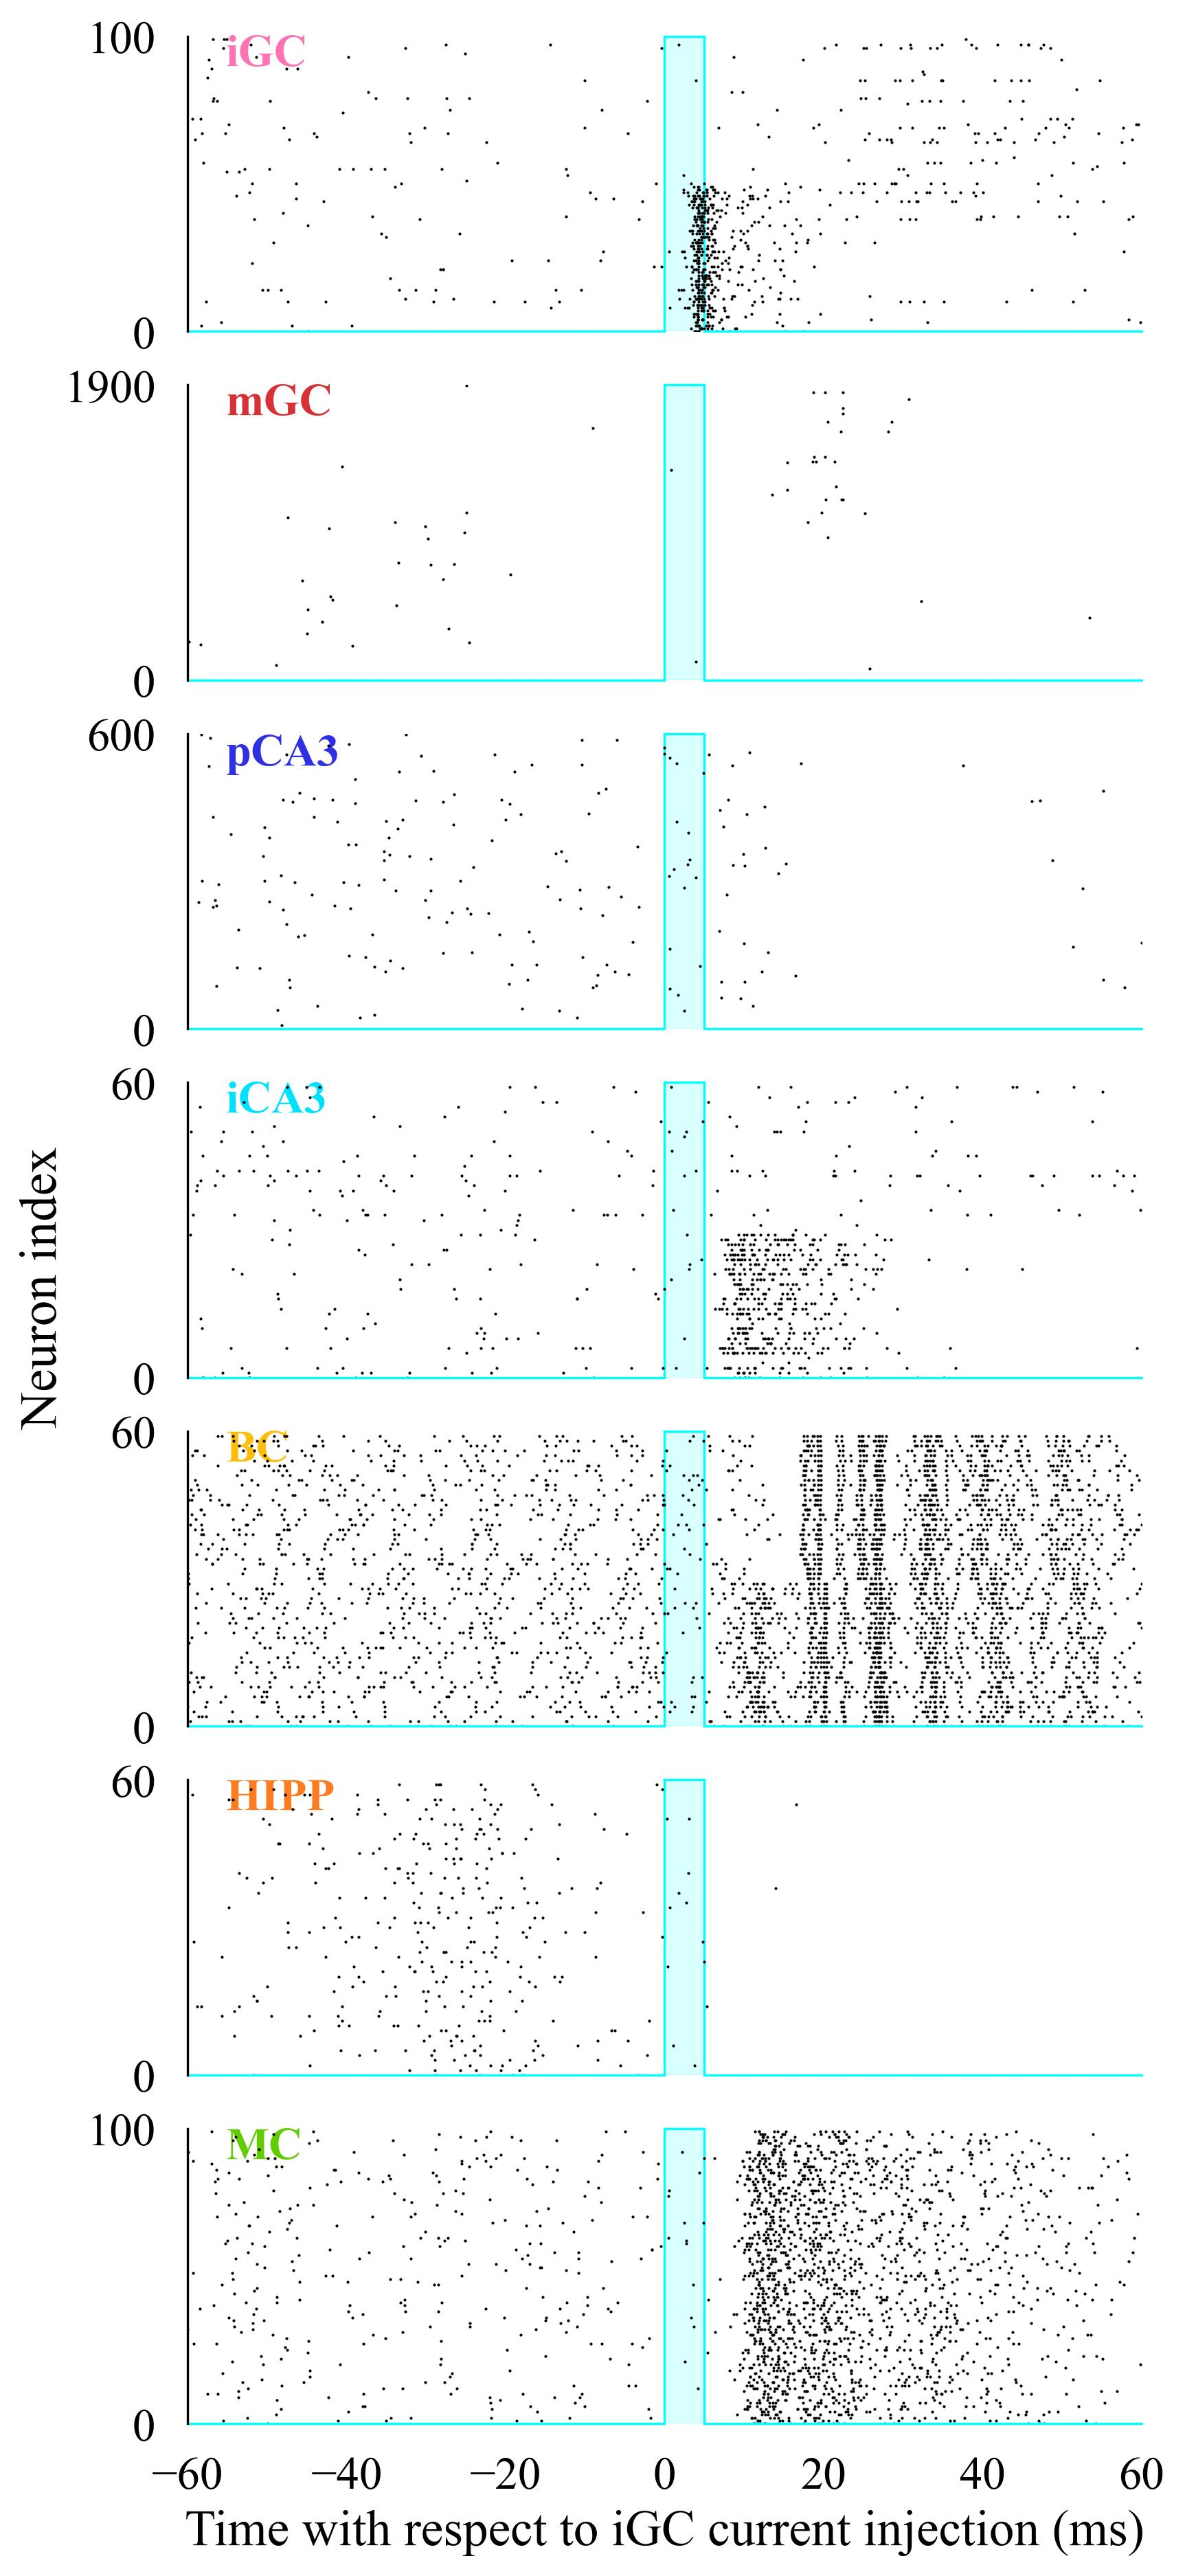
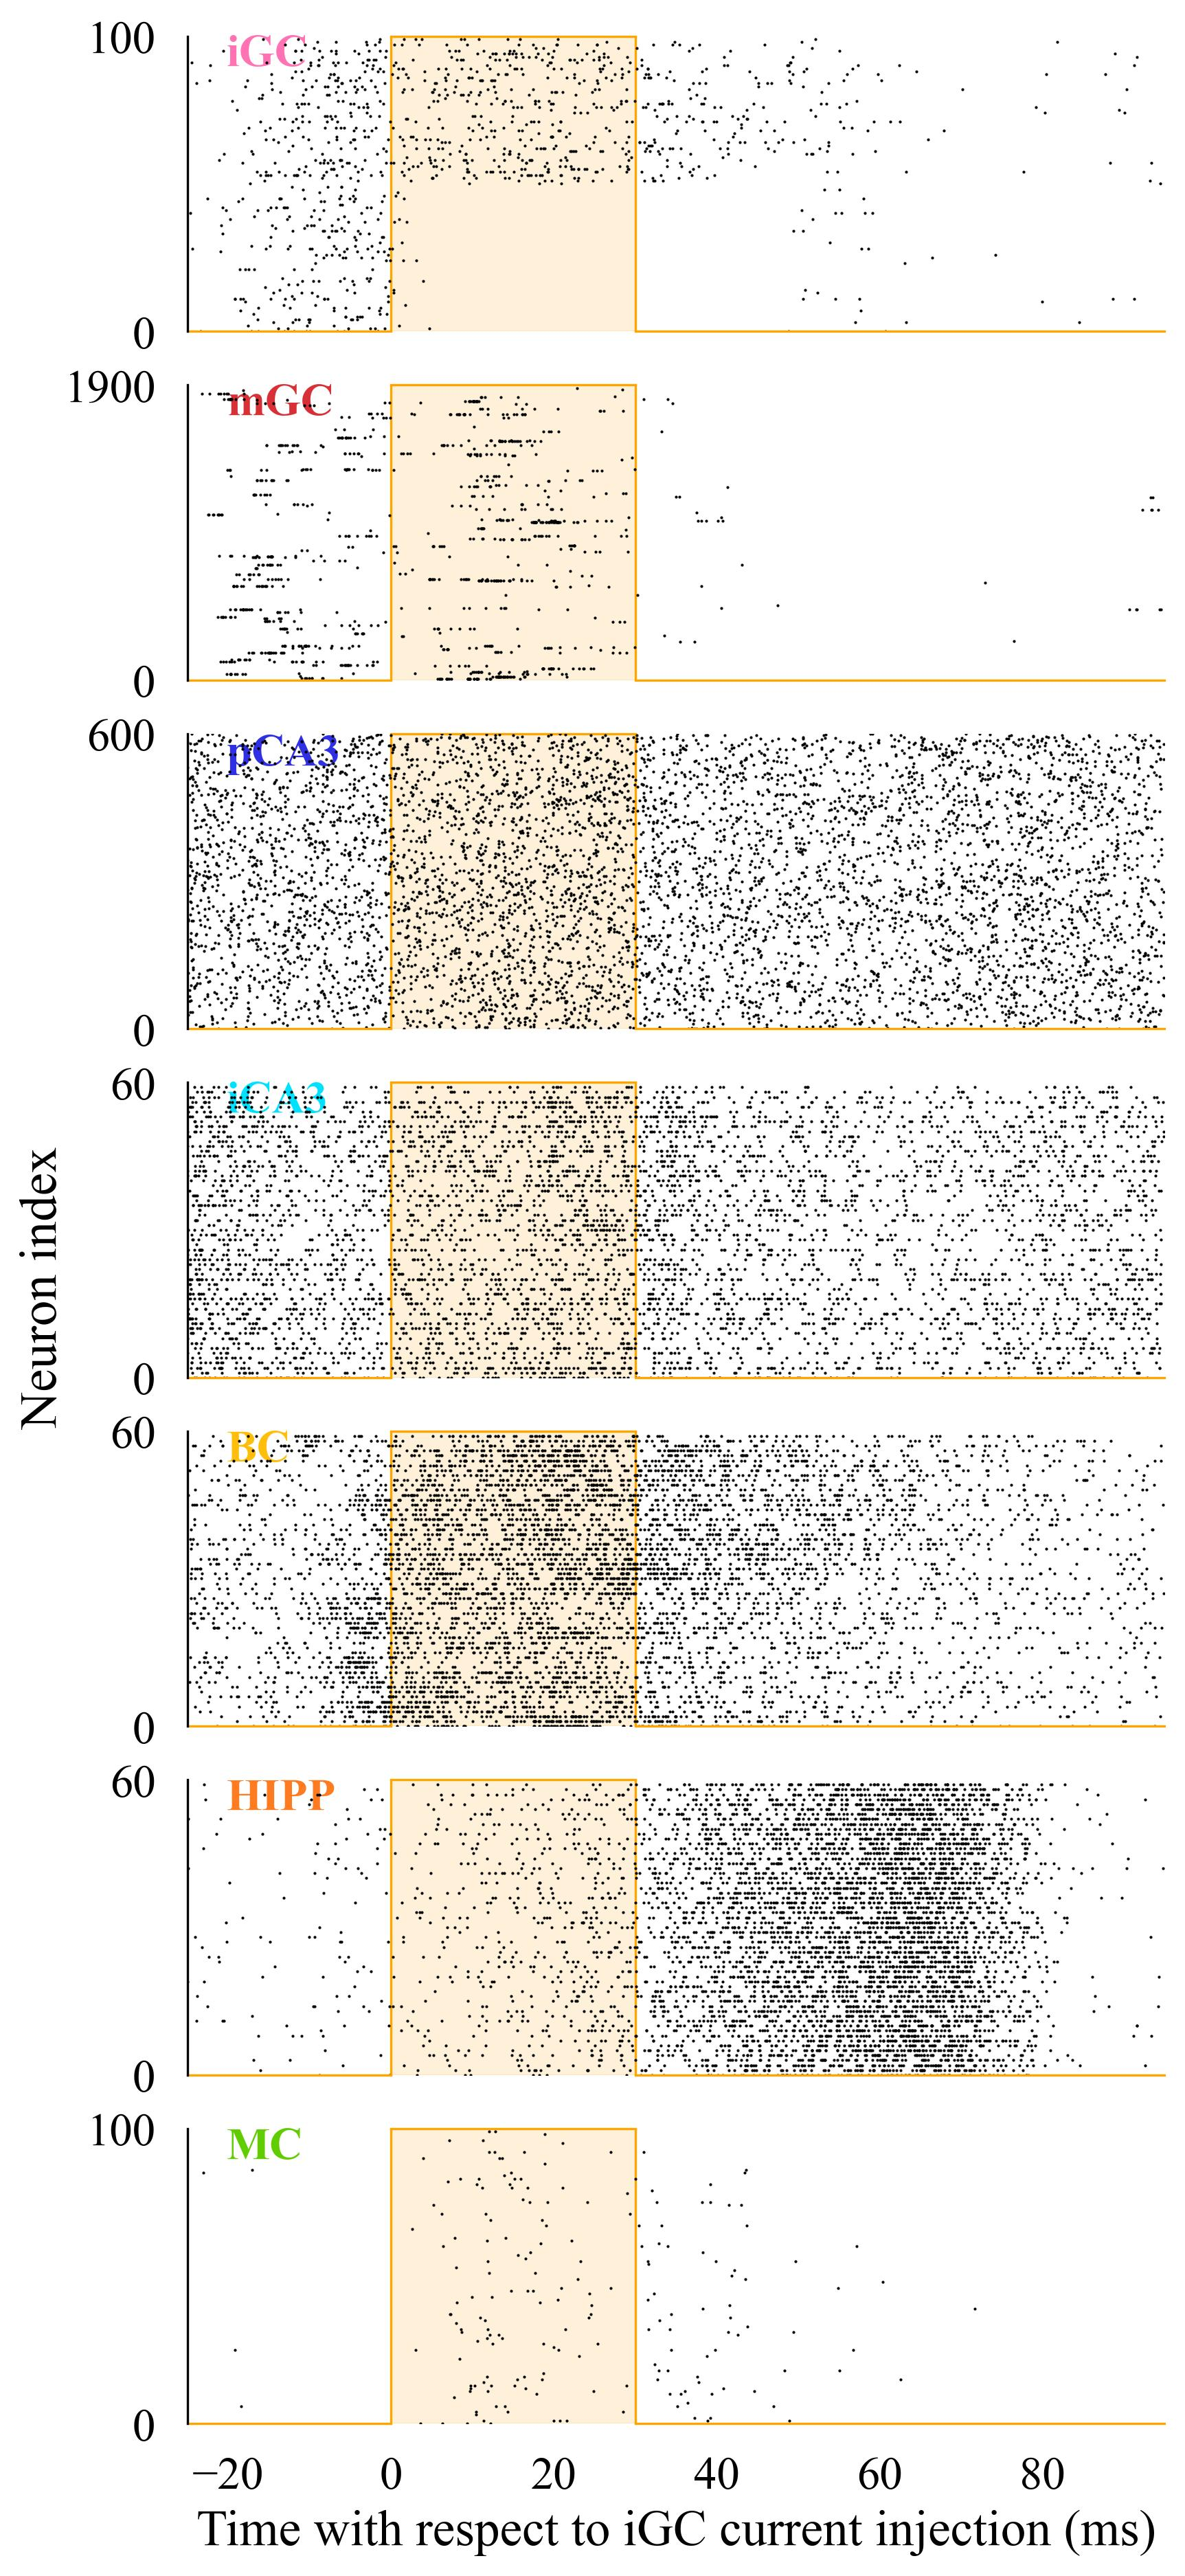
negative optogenetics start

diff --git a/scripts/data/optogenetics_spikes.py b/scripts/data/optogenetics_spikes.py
@@ -6,15 +6,19 @@ matplotlib.use('Agg')
 import matplotlib.pyplot as plt
 from glob import glob
 import h5py
+from utils.plot_styles import cell_colors
+from utils.args_config import args
 
-RUN_NAME      = 'optogenetics'
+NEG = True
 
-ONSET_TIME_MS = 500.0
-DURATION_MS   = 5.0
+RUN_NAME = 'all_optogenetics_neg' if NEG else 'all_optogenetics_good'
+
+ONSET_TIME_MS = 100.0 if NEG else 200.0
+DURATION_MS   = 30.0 if NEG else 5.0
 BREAK_TIME_MS = 300.0
 
-PRE_MS        = 60.0
-POST_MS       = 60.0
+PRE_MS        = 25 if NEG else 60
+POST_MS       = 95 if NEG else 60
 
 CELL_TYPES = [
     ('igc',  'iGC'),
@@ -28,7 +32,7 @@ CELL_TYPES = [
 
 OUTPUT_PATH = 'figures/plots/optogenetics_spikes.jpg'
 
-from utils.plot_styles import cell_colors
+opto_color = 'orange' if NEG else 'cyan'
 
 plt.style.use('seaborn-v0_8-poster')
 plt.rcParams.update({
@@ -40,11 +44,14 @@ plt.rcParams.update({
 def load_data(run_name):
     base  = f'res/{run_name}'
     files = sorted(glob(f'{base}/**/*.h5', recursive=True))
+    # files = sorted(glob(f'{base}/neurogenesis_0.5_ca3_trial_0_pattern_0/*.h5', recursive=True))
+    # files = sorted(glob(f'{base}/neurogenesis_0.4_ca3_trial_0_pattern_0/*.h5', recursive=True))
+    # files = sorted(glob(f'{base}/neurogenesis_0.1_ca3_trial_*/*.h5', recursive=True))
     if not files:
         sys.exit(f'No .h5 files found under {base}/')
 
     spike_times = {}
-    n_neurons   = {}
+    n_neurons   = {'bc': args.n_bc, 'hipp': args.n_hipp, 'ica3': args.n_ica3, 'igc': args.n_igc, 'mc': args.n_mc, 'mgc': args.n_mgc - args.n_igc, 'pca3': args.n_pca3, 'pp': args.n_pp}
 
     for fpath in files:
         with h5py.File(fpath, 'r') as f:
@@ -58,7 +65,8 @@ def load_data(run_name):
                 i = np.array(f['spike_times'][ct]['indices'],  dtype=np.int32)
                 spike_times.setdefault(ct, []).append((t, i))
                 if ct not in n_neurons and 'rates' in f and ct in f['rates']:
-                    n_neurons[ct] = len(f['rates'][ct])
+                    if len(f['rates'][ct]):
+                        n_neurons[ct] = len(f['rates'][ct])
 
     return spike_times, n_neurons
 
@@ -99,12 +107,12 @@ def main():
 
         ax.plot(rel_t, idx, 'ok', markersize=1)
 
-        ax.axvspan(0, DURATION_MS, color='cyan', alpha=0.15, zorder=0)
-        ax.axvline(0, color='cyan', linewidth=0.8, zorder=1)
-        ax.axvline(DURATION_MS, color='cyan', linewidth=0.8, zorder=1)
-        ax.plot([0, DURATION_MS], [n_neur, n_neur], color='cyan', linewidth=0.8, zorder=1, clip_on=False)
-        ax.plot([-PRE_MS, 0], [0, 0], color='cyan', linewidth=0.8, zorder=2, clip_on=False)
-        ax.plot([DURATION_MS, POST_MS], [0, 0], color='cyan', linewidth=0.8, zorder=2, clip_on=False)
+        ax.axvspan(0, DURATION_MS, color=opto_color, alpha=0.15, zorder=0)
+        ax.axvline(0, color=opto_color, linewidth=0.8, zorder=1)
+        ax.axvline(DURATION_MS, color=opto_color, linewidth=0.8, zorder=1)
+        ax.plot([0, DURATION_MS], [n_neur, n_neur], color=opto_color, linewidth=0.8, zorder=1, clip_on=False)
+        ax.plot([-PRE_MS, 0], [0, 0], color=opto_color, linewidth=0.8, zorder=2, clip_on=False)
+        ax.plot([DURATION_MS, POST_MS], [0, 0], color=opto_color, linewidth=0.8, zorder=2, clip_on=False)
 
         ax.set_ylim(0, n_neur)
         ax.set_yticks([0, n_neur])

diff --git a/scripts/data/optogenetics_psth.py b/scripts/data/optogenetics_psth.py
@@ -1,4 +1,5 @@
 import os
+import math
 import sys
 import numpy as np
 import matplotlib
@@ -7,16 +8,20 @@ import matplotlib.pyplot as plt
 from glob import glob
 import h5py
 
-RUN_NAME        = 'optogenetics'
+NEG = True
 
-ONSET_TIME_MS   = 500.0
-DURATION_MS     = 5.0
-BREAK_TIME_MS   = 300.0
+RUN_NAME = 'all_optogenetics_neg' if NEG else 'all_optogenetics_good'
 
-PRE_MS          = 60.0
-POST_MS         = 60.0
+ONSET_TIME_MS = 100.0 if NEG else 200.0
+DURATION_MS   = 30.0 if NEG else 5.0
+BREAK_TIME_MS = 300.0
+
+PRE_MS        = 25 if NEG else 60
+POST_MS       = 95 if NEG else 60
 
 BIN_SIZE_MS     = 2.0
+
+GROUPS = [round(g * 0.1, 1) for g in range(1, 11)]  # 0.1 … 1.0
 
 CELL_TYPES = [
     ('igc',  'iGC'),
@@ -28,7 +33,9 @@ CELL_TYPES = [
     ('mc',   'MC'),
 ]
 
-OUTPUT_PATH = 'figures/plots/optogenetics_psth.jpg'
+OUTPUT_PATH = f'figures/plots/optogenetics_psth_{RUN_NAME}.jpg'
+
+opto_color = 'orange' if NEG else 'cyan'
 
 from utils.plot_styles import cell_colors
 
@@ -44,6 +51,7 @@ plt.rcParams.update({
 def load_data(run_name):
     base  = f'res/{run_name}'
     files = sorted(glob(f'{base}/**/*.h5', recursive=True))
+    # files = sorted(glob(f'{base}/neurogenesis_0.1_ca3_trial_*/*.h5', recursive=True))
     if not files:
         sys.exit(f'No .h5 files found under {base}/')
 
@@ -100,8 +108,8 @@ def draw_stimulus_indicator(ax, ymax, ymin):
 
     xs = [-PRE_MS, 0,      0,    DURATION_MS, DURATION_MS, POST_MS]
     ys = [y_flat,  y_flat, ymax,  ymax,         y_flat,      y_flat]
-    ax.plot(xs, ys, color='cyan', lw=1.2, solid_joinstyle='miter', solid_capstyle='butt', clip_on=False, zorder=5)
-    ax.axvspan(0, DURATION_MS, color='cyan', alpha=0.15, zorder=0)
+    ax.plot(xs, ys, color=opto_color, lw=1.2, solid_joinstyle='miter', solid_capstyle='butt', clip_on=False, zorder=5)
+    ax.axvspan(0, DURATION_MS, color=opto_color, alpha=0.15, zorder=0)
     return abs(y_flat)
 
 
@@ -137,7 +145,8 @@ def main():
         zmax = max(float(zscore.max()) * 1.15, 1.0)
         zmin = float(zscore.min()) 
         indicator_h = draw_stimulus_indicator(ax, zmax, zmin)
-        ax.set_ylim(-indicator_h, zmax)
+        if not math.isnan(indicator_h) and not math.isnan(zmax):
+            ax.set_ylim(-indicator_h, zmax)
 
         ax.yaxis.set_major_locator(plt.MaxNLocator(nbins=2, min_n_ticks=3, steps=[1, 2, 5, 10], integer=True))
 

diff --git a/main.py b/main.py
@@ -20,16 +20,24 @@ def res_filename(i, total):
     return f"{args.prefix}/{flag}_trial_{trial_index}_pattern_{pattern_index}"
 
 def optogenetics():
-    if not args.optogenetics:
-        return
-    return {
-        "cell_type": 'igc',
-        "amount_affected": 50,
-        "current_injected": 0.5 * nA,
-        # "current_injected": 0 * nA,
-        "onset_time": 500 * ms,
-        "duration": 5 * ms,
-    }
+    if args.optogenetics_neg:
+        return {
+            "cell_type": 'igc',
+            "amount_affected": 50,
+            # "current_injected": -0.05 * nA,
+            # "current_injected": 0 * nA,
+            "current_injected": -0.5 * nA,
+            "onset_time": (args.stim_time / 2) * ms,
+            "duration": 30 * ms,
+        }
+    if args.optogenetics:
+        return {
+            "cell_type": 'igc',
+            "amount_affected": 50,
+            "current_injected": 0.5 * nA,
+            "onset_time": (args.stim_time / 2) * ms,
+            "duration": 5 * ms,
+        }
 
 
 if __name__ == "__main__":

diff --git a/utils/args_config.py b/utils/args_config.py
@@ -23,6 +23,7 @@ parser.add_argument("--skip-conn", action="store_true", help="Whether to skip th
 parser.add_argument("--skip-rates", action="store_true", help="Whether to skip storing firing rates")
 parser.add_argument("--generate-graph", action="store_true", help="Whether to generate the graph connectivity matrix")
 parser.add_argument("--optogenetics", action="store_true", help="Whether to run \"optogenetics\" simulation")
+parser.add_argument("--optogenetics-neg", action="store_true", help="Whether to run negative \"optogenetics\" simulation")
 parser.add_argument("--pattern-sequence-mode", action="store_true", help="Run all patterns as a single sequential simulation instead of independent parallel runs")
 parser.add_argument("--transition-time", type=float, default=0, help="Duration (ms) of linear rate ramp between patterns in sequence mode")
 